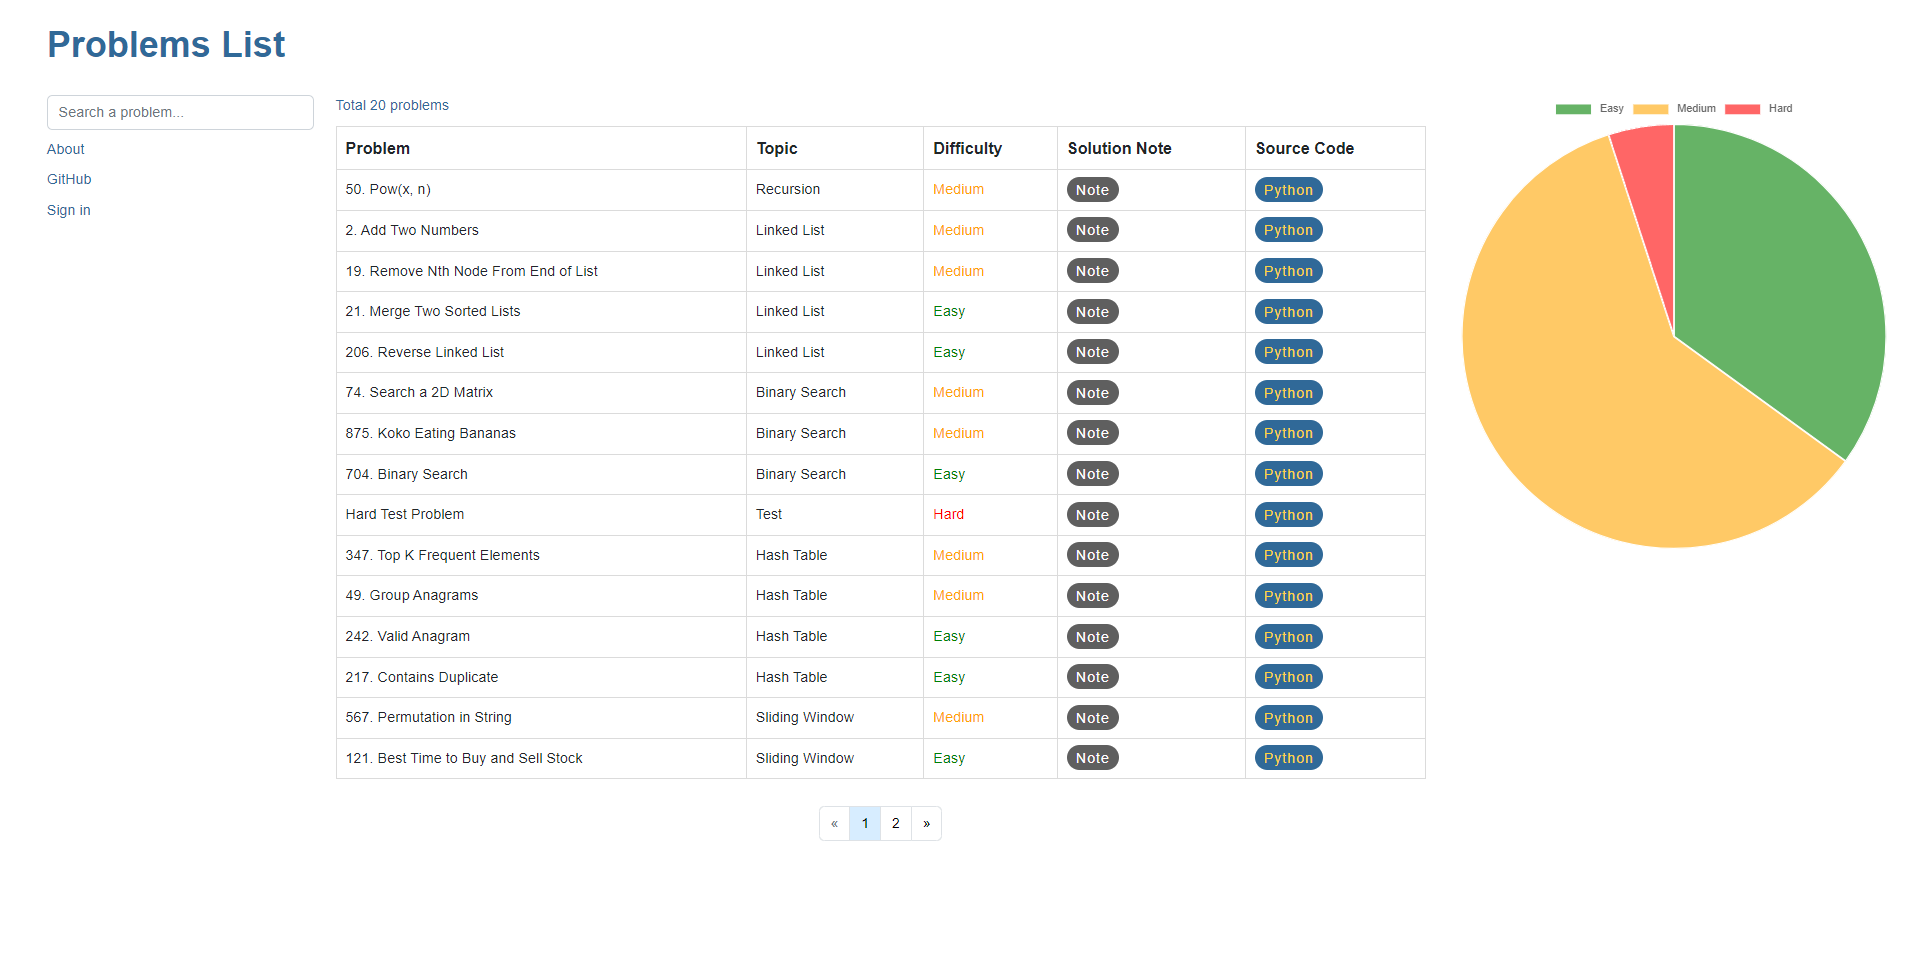
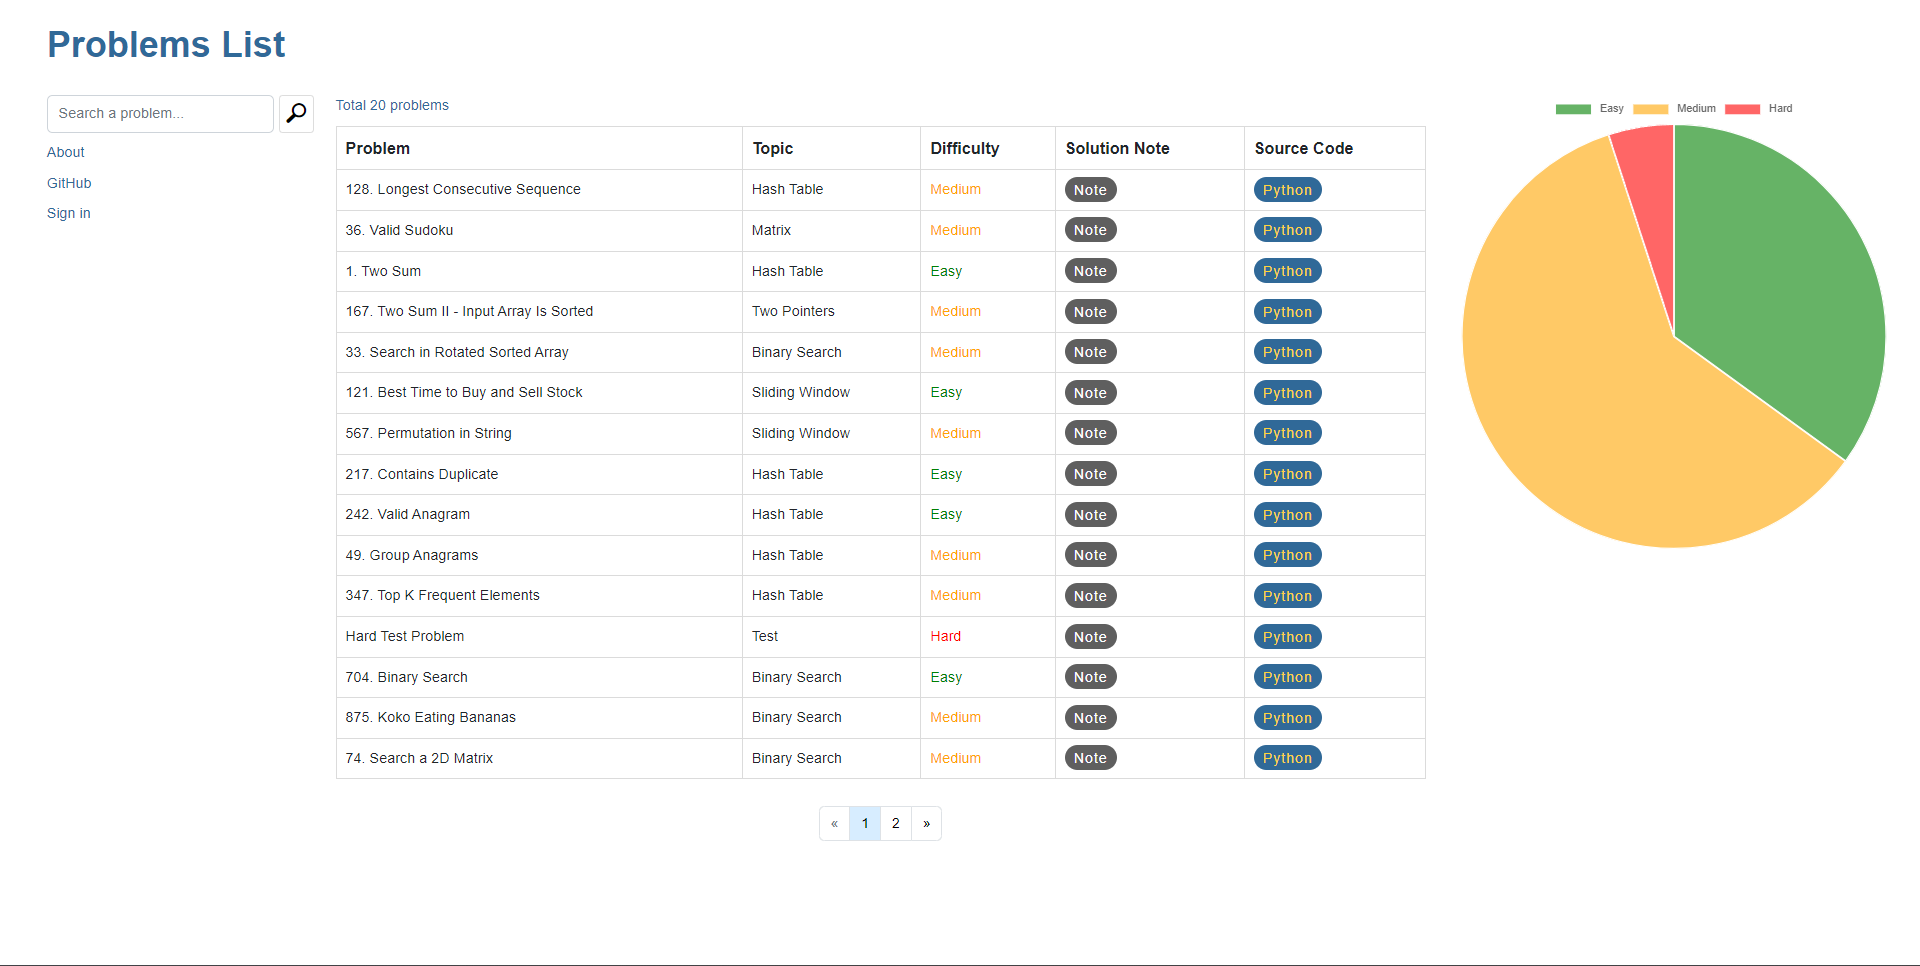
search add

diff --git a/problems_list/templates/problems_list/list.html b/problems_list/templates/problems_list/list.html
@@ -25,22 +25,21 @@
         <ul>
           <li>
             {% csrf_token %}
-            <form method="GET" autocomplete="off">
-              <input name="q" 
-                    class="form-control" 
-                    type="text" 
-                    placeholder="Search a problem..." 
-                    aria-label="Search"
+            <form method="GET" action="search" autocomplete="off" style="display: flex; justify-content: space-around;">
+              <input name="q" id="q"
+                class="form-control" 
+                type="search" 
+                placeholder="Search a problem..." 
+                aria-label="Search"
               />
+              <button type="submit" class="submit-btn">&#x1F50E;&#xFE0E;</button>
             </form>
           </li>
           <li class="nav-item">
             <a href="{% url 'problems_list:about' %}">About</a>
           </li>
           <li class="nav-item">
-            <a href={{ leetcode_github.url }}
-              target="_blank"
-              rel="noopener noreferrer">
+            <a href={{ leetcode_github.url }} target="_blank" rel="noopener noreferrer">
               GitHub
             </a>
           </li>
@@ -50,9 +49,7 @@
 
       <div class="col-sm-7 problems-list" >
         <section class="problems-count">
-          {% if problems_count > 1 %}
             Total {{ problems_count }} problems
-          {% endif %}
         </section>
         
         <table>
@@ -66,33 +63,23 @@
           {% for problem in problems %}
             <tr>
               <td>
-                <a href="{{ problem.link }}"
-                  target="blank"
-                  rel="noopener noreferrer">
+                <a href="{{ problem.link }}" target="blank" rel="noopener noreferrer">
                   {{ problem.name }}
                 </a>
               </td>
-              <td>
-                <a class="problem-topic" 
-                  href="{% url 'problems_list:home' %}?q={{ problem.topic }}">
-                  {{ problem.topic }}
-                </a>
+              <td class="problem-topic">
+                {{ problem.topic }}
+              </td>
+              <td class="{{ problem.difficulty }}">
+                {{ problem.difficulty }}
               </td>
               <td>
-                <a class="{{ problem.difficulty }}" 
-                  href="{% url 'problems_list:home' %}?q={{ problem.difficulty }}">
-                  {{ problem.difficulty }}
-                </a>
-              </td>
-              <td>
-                <a class="problem-note" 
-                  href="{% url 'problems_list:note' problem.id %}">
+                <a class="problem-note" href="{% url 'problems_list:note' problem.id %}">
                   Note
                 </a>
               </td>
               <td>
-                <a class="problem-code" 
-                  href="{{ problem.source_code.url }}">
+                <a class="problem-code" href="{{ problem.source_code.url }}">
                   Python
                 </a>
               </td>
@@ -109,7 +96,3 @@
     </div>
   </div>
 {% endblock content %}
-
-{% block script %}
-  <script src="{% static 'js/main.js' %}"></script>
-{% endblock script %}

diff --git a/static/css/style.css b/static/css/style.css
@@ -11,6 +11,14 @@ html, body {
 
 .container { padding-top: 50px; }
 
+.submit-btn {
+  margin-left: 5px;
+  border: 1px solid #dbdbdb;
+  background: none;
+  font-size: 25px;
+  border-radius: 10%;
+}
+
 table {
   border-collapse: collapse;
   width: 100%;

diff --git a/problems_list/views.py b/problems_list/views.py
@@ -6,16 +6,7 @@ from .models import Problem
 OBJECTS_PER_PAGE = 15
 
 def problems_list(request):
-    # problems_list = Problem.objects.all()
-
-    query = request.GET.get('q') if request.GET.get('q') != None else ''
-
-    problems_list = Problem.objects.filter(
-        Q(name__icontains=query) |
-        Q(topic__icontains=query) |
-        Q(difficulty__name__icontains=query)
-    ).order_by('-add_date')
-
+    problems_list = Problem.objects.all()
     problems_count = problems_list.count()
     
     page = request.GET.get('page', 1)
@@ -30,9 +21,38 @@ def problems_list(request):
 
     context = {
         'problems': problems,
-        'problems_count': problems_count
+        'problems_count': problems_count,
     }
     return render(request, 'problems_list/list.html', context)
+
+
+def search(request):
+    query = request.GET.get('q') if request.GET.get('q') != None else ''
+
+    problems_list = Problem.objects.filter(
+        Q(name__icontains=query) |
+        Q(topic__icontains=query) |
+        Q(difficulty__name__icontains=query)
+    ).order_by('-add_date')
+
+    problems_count = problems_list.count()
+
+    page = request.GET.get('page', 1)
+    paginator = Paginator(problems_list, 5)
+
+    try:
+        problems = paginator.page(page)
+    except PageNotAnInteger:
+        problems = paginator.page(1)
+    except EmptyPage:
+        problems = paginator.page(paginator.num_pages)
+
+    context = {
+        'problems': problems,
+        'problems_count': problems_count
+    }
+
+    return render(request, 'problems_list/search.html', context)
 
 
 def note(request, pk):

diff --git a/problems_list/urls.py b/problems_list/urls.py
@@ -9,13 +9,18 @@ urlpatterns = [
         name='home'
     ),
     path( 
+        'search/', 
+        views.search, 
+        name='search'
+    ),
+    path( 
         '<int:pk>/', 
         views.note, 
-        name='note'
+        name = 'note'
     ),
     path( 
         'about/', 
         views.about, 
-        name='about'
+        name = 'about'
     ),
 ]
